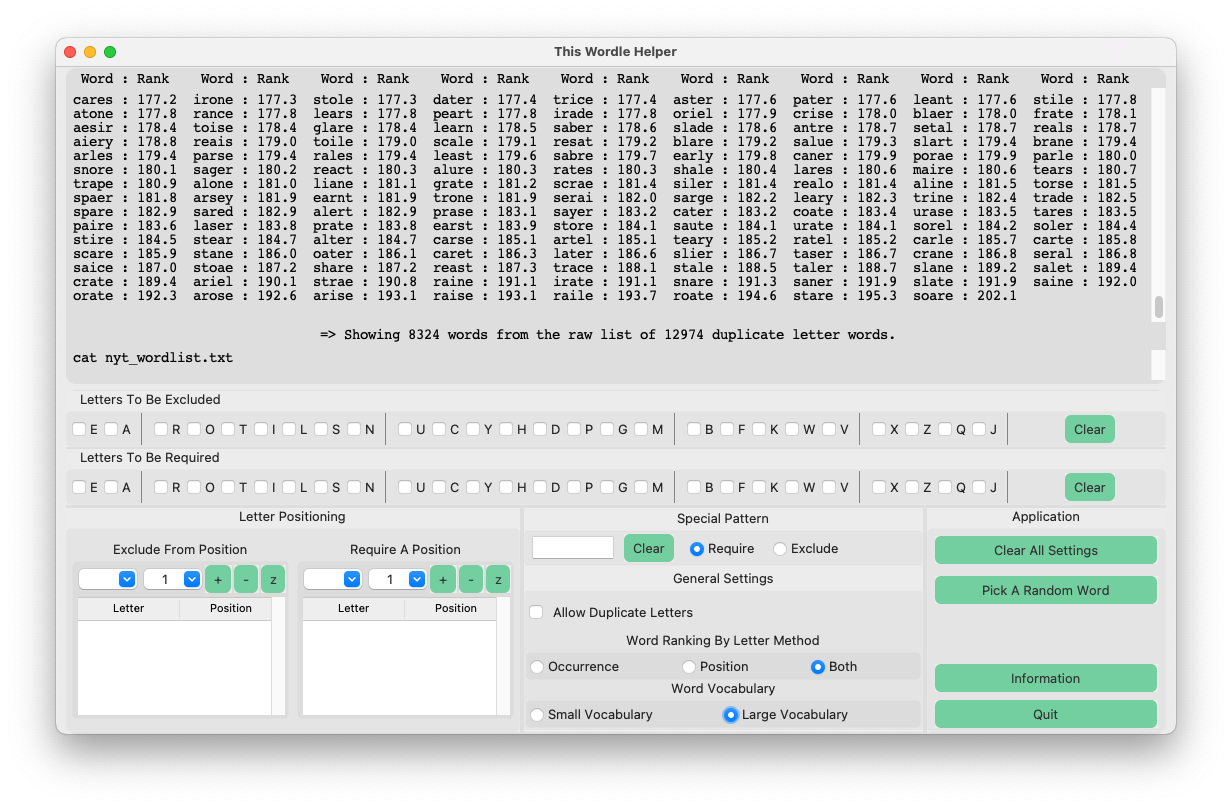
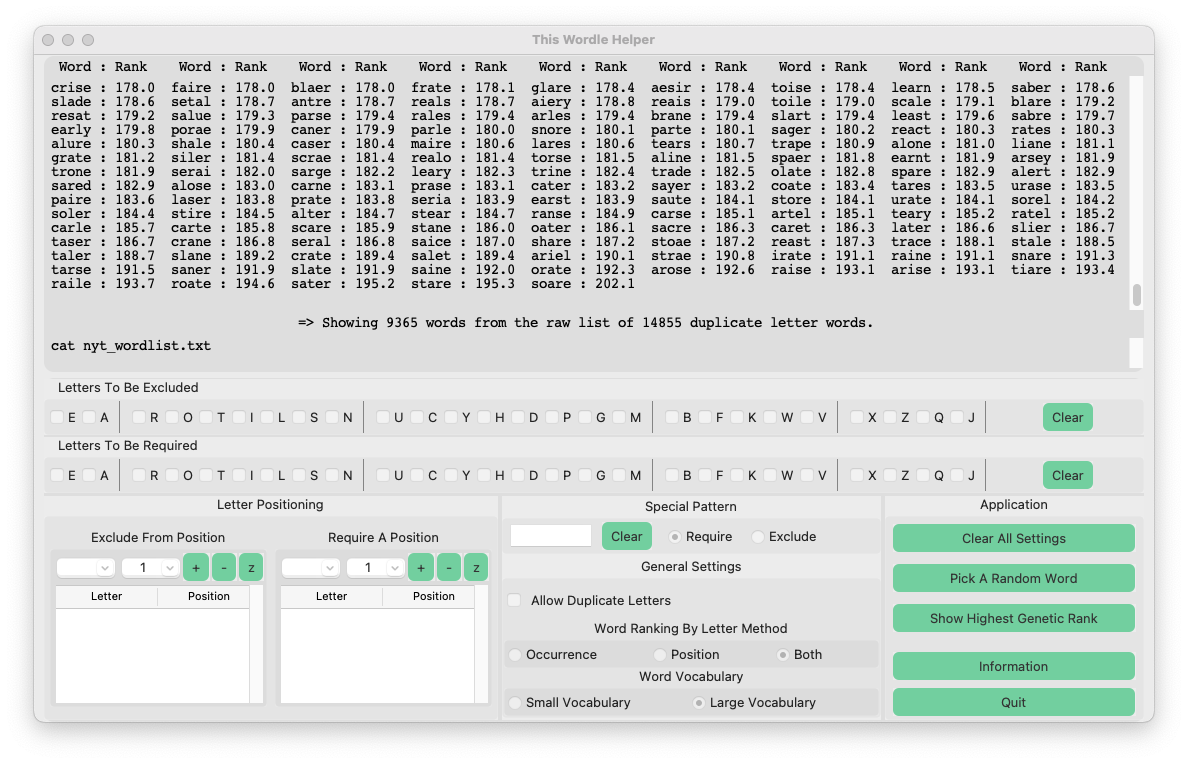
Genetic (#7)
* starting genetic

* progress

* Genetic Ranking

* Finishing Genetic

Changed region(s): [[0.0311, 0.0301, 0.9655, 0.4817], [0.0311, 0.4215, 0.9655, 0.9634]]

diff --git a/helpers.py b/helpers.py
@@ -8,6 +8,8 @@ import tkinter as tk  # assigns tkinter stuff to tk namespace
 from tkinter import messagebox
 from typing import NoReturn
 
+gc_z = [0, 0, 0, 0, 0, 0, 0, 0, 0, 0, 0, 0, 0, 0, 0, 0, 0, 0, 0, 0, 0, 0, 0, 0, 0, 0, 0, 0]
+
 
 # Returns the wordle word list full pathname
 # Exits program if not found
@@ -178,6 +180,83 @@ def clear_scrn() -> NoReturn:
     os.system("cls" if os.name == "nt" else "clear")
 
 
+# Return a word's genetic code
+# example:woody
+# returns:[0, 0, 0, 1, 0, 0, 0, 0, 0, 0, 0, 0, 0, 0, 2, 0, 0, 0, 0, 0, 0, 0, 1, 0, 1, 0, 1, 0]
+# translated: idx 0-25 'abc...xyz' letter count, idx 26 duplicates count, idx 27 genetic rank
+# genetic rank applies in context of a list of words, so it is calculated later
+def get_gencode(word) -> list:
+    # gencode is the list of integers that will be returned
+    gencode = gc_z.copy()
+    # dups counts the number of times letters occur more than once
+    dups = 0
+    # loop through each letter in the word
+    for ltr in word:
+        idx = ord(ltr) - 97
+        # Increment dups if that letter has already been seen.
+        if gencode[idx] > 0:
+            dups += 1
+        # Mark that letter as having been seen.
+        gencode[idx] = 1
+    gencode[26] = dups
+    return gencode
+
+
+# returns genetic letter tally list for a gendictionary
+# this list is 26 members where each member corresponds
+# to the count for that letter position idx 0-25 where
+# idx 0=a and idx 25=z
+def get_gendict_tally(gendict) -> list:
+    gen_tally = []
+    for x in range(26):
+        gen_tally.append(0)
+    # loop through each gencode values list
+    for gencode in gendict.values():
+        # looking at just the list's a...z letter presence value,
+        # add them up
+        for idx in range(26):
+            if gencode[idx] > 0:
+                gen_tally[idx] = gen_tally[idx] + gencode[idx]
+    return gen_tally
+
+
+# Assigns the genetic rank to the gendict members and returns
+# the maximum genetic rank seen.
+def assign_genrank(gendict, gen_tally) -> int:
+    maxrank = 0
+    for w, g in gendict.items():
+        gr = 0
+        for idx in range(26):
+            gr = gr + g[idx] * gen_tally[idx]
+        gr = gr + g[26]
+        new_g = g
+        new_g[27] = gr
+        if gr > maxrank:
+            maxrank = gr
+        gendict.update({w: new_g})
+    return maxrank
+
+
+# returns list of the max genrankers in the gendict
+def get_maxgenrankers(gendict, maxrank) -> list:
+    max_rankers = []
+    for w, g in gendict.items():
+        if maxrank == g[27]:
+            max_rankers.append(w)
+    return max_rankers
+
+
+# returns a regex formatted pattern string for highlighting
+def regex_maxgenrankers(max_rankers, wordsdict) -> str:
+    pat_list = []
+    mid_div = " : "
+    for w in max_rankers:
+        r = wordsdict[w]
+        pat_list.append(w + mid_div + r)
+    regex_str = '|'.join(pat_list)
+    return regex_str
+
+
 # A class used for holding list stack of the shell commands
 # It has functions that build greps related to filtering wordle
 # letter conditions. Some functions are not used in the gui
@@ -300,6 +379,11 @@ class ToolResults:
         self.ranked_cnt = len(self.ranked_wrds_dict)
         return self.ranked_wrds_dict
 
+    # aks to do
+    # Genetic note: We still want to know the letter freq rank for the genetic ranked words. The plan will
+    # be to show the normal ranked list with the highest genetics highlighted.
+    # Multiple highlighting is possible. Tested
+
     # Return the grepped word count
     def get_results_raw_cnt(self) -> str:
         sh_cmd_for_cnt = self.tool_command_list.full_cmd() + " | wc -l"
@@ -344,7 +428,7 @@ class CustomText(tk.Text):
         tk.Text.__init__(self, *args, **kwargs)
 
     def highlight_pattern(self, pattern, tag, start="1.0", end="end",
-                          regexp=False):
+                          regexp=True):
         """Apply the given tag to all text that matches the given pattern
         If 'regexp' is set to True, pattern will be treated as a regular
         expression according to Tcl's regular expression syntax.
@@ -367,4 +451,4 @@ class CustomText(tk.Text):
             self.mark_set("matchStart", index)
             self.mark_set("matchEnd", "%s+%sc" % (index, count.get()))
             self.tag_add(tag, "matchStart", "matchEnd")
-            self.see(index) # scroll widget to show the index's line
+            self.see(index)  # scroll widget to show the index's line

diff --git a/pywt.py b/pywt.py
@@ -17,15 +17,15 @@
 # Hopefully the upgrade does not break this code.
 #
 import os
-from tkinter import messagebox
-
-import helpers
-
+import random
 import tkinter as tk  # assigns tkinter stuff to tk namespace so that it may be separate from ttk
 import tkinter.ttk as ttk  # assigns tkinter.ttk stuff to its own ttk namespace so that tk is preserved
-import customtkinter as ctk
+from tkinter import messagebox
 from typing import NoReturn
-import random
+
+import customtkinter as ctk
+
+import helpers
 
 ctk.set_appearance_mode("system")  # Modes: system (default), light, dark
 ctk.set_default_color_theme("green")  # Themes: "blue" (standard), "green", "dark-blue"
@@ -169,6 +169,7 @@ class Pywordlemainwindow(ctk.CTk):
         self.pos_r = self.pos5.copy()
         self.pos_x = self.pos5.copy()
         self.sel_rando = False
+        self.sel_genetic = False
 
         # configure style
         style = ttk.Style()
@@ -215,6 +216,8 @@ class Pywordlemainwindow(ctk.CTk):
             tx_result.configure(state='normal')
             tx_result.delete(1.0, tk.END)
 
+            # Wordletool is now ready to filter the list and return the list ranked
+            # according to the rank arguments.
             the_word_list = wordletool.get_ranked_results_wrd_lst()
 
             n_items = len(the_word_list)
@@ -245,6 +248,18 @@ class Pywordlemainwindow(ctk.CTk):
                 # highlight the rand_pick, which also scrolls the widget
                 # to the rand_pick's line.
                 tx_result.highlight_pattern(rand_pick, 'hlt')
+
+            # Genetic ranking
+            if self.sel_genetic and (n_items > 0):
+                gendict: dict[str, list] = {}
+                for w, r in the_word_list.items():
+                    gencode = helpers.get_gencode(w)
+                    gendict.update({w: gencode})
+                gen_tally = helpers.get_gendict_tally(gendict)
+                maxrank = helpers.assign_genrank(gendict, gen_tally)
+                max_rankers = helpers.get_maxgenrankers(gendict, maxrank)
+                regex = helpers.regex_maxgenrankers(max_rankers, the_word_list)
+                tx_result.highlight_pattern(regex, 'hlt')
 
             tx_result.configure(state='disabled')
             if not self.sel_rando:
@@ -381,6 +396,12 @@ class Pywordlemainwindow(ctk.CTk):
             self.sel_rando = True
             do_grep()
             self.sel_rando = False
+
+        # selected genetic ranking in the result
+        def pick_genetic() -> NoReturn:
+            self.sel_genetic = True
+            do_grep()
+            self.sel_genetic = False
 
         # Clears and fills a treeview with dictionary contents
         # Results are sorted by the dictionary keys.
@@ -1239,6 +1260,10 @@ class Pywordlemainwindow(ctk.CTk):
 
         self.bt_rando = ctk.CTkButton(self.admin_frame, text="Pick A Random Word", width=40, command=pick_rando)
         self.bt_rando.pack(side=tk.TOP, padx=6, pady=6, fill=tk.X)
+
+        self.bt_genetic = ctk.CTkButton(self.admin_frame, text="Show Highest Genetic Rank", width=40, command=pick_genetic)
+        self.bt_genetic.pack(side=tk.TOP, padx=6, pady=6, fill=tk.X)
+
         # === END OF ====== Application Controls ==========
 
         # run the initial grep

diff --git a/README.md b/README.md
@@ -13,7 +13,7 @@
 ### What To Expect From This Helper
 
 * Expect nothing more than a helper with a thorough vocabulary that presents words only matching the letters you specify.
-* The Helper was created for investigating Wordle word pick strategies. Using the Helper removes the task of thinking up five letter words to allow one to focus only on play strategy.
+* The Helper was created for investigating Wordle word pick strategies. Using the Helper removes the task of thinking up five-letter words to allow one to focus only on play strategy.
 * The Helper "knows" the words but not which word is the solution. As such the Helper ruins the game for those where thinking up words is the attraction to Wordle.  
 
 ### Running the Wordle helper
@@ -70,6 +70,11 @@ After installing python3 and pip, the following commands entered in a Terminal w
 * The **Both** method sums the **Occurrence** and the **Position** methods. The method first biases the word rank according to by letter occurrence ranking. Then it up promotes the rank according to letter position rank.
 * These ranking method are essentially of different scales. Each should not be compared to each other for any particular word.
 * Word rank represents relative occurrence probability; however, any word matching the filter could be the Wordle word regardless of its rank.
+
+### Genetic Ranking
+
+* Genetic Rank is a measure of how related via its letters a word is to other words amongst a word group. Each word in a group is assigned a 1x26 vector of 0 or 1 entries that flags whether a letter occurs in that word. Those vectors from the word group are summed to result in a 1x26 vector that is counting the letter flags in the word group. A word's genetic rank is calculated as the sum product of a word's flag vector and the word group's summing flag vector. The word's rank is then increased by each time a letter in that word occurs more than once. 
+* Using the highest genetic ranking word minimizes the worst possible Wordel outcome. In s simple example consider a word group of three words. The worst possible outcome is three guesses. If there is one or two highest genetic ranking words in this group, then picking one of those words first reduces the worst possible outcome to two guesses.
 
 ### Wordle Play Strategies
 
